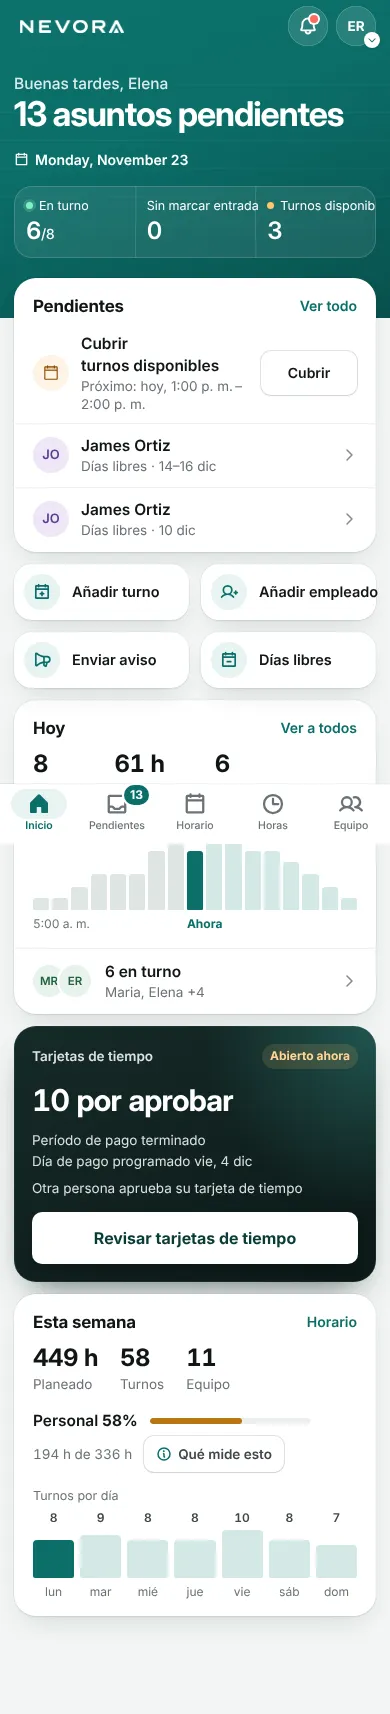
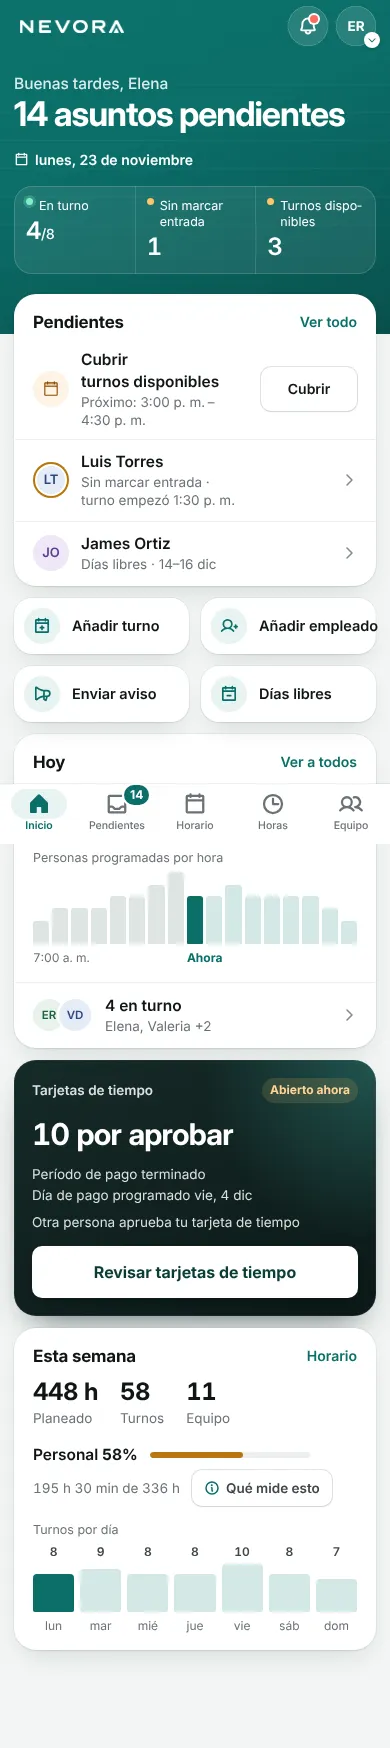
es-owner second release: report section and Spanish captures (Team availability, Home, Notifications)
Claude-Session: https://claude.ai/code/session_01N2UNZEJf6HgUuWbejnhCxe

diff --git a/docs/handoffs/2026-11-23-phase2-cloud/reports/es-owner.md b/docs/handoffs/2026-11-23-phase2-cloud/reports/es-owner.md
@@ -166,3 +166,32 @@ The scan used a scratch copy of the harness with three additions: the `nv-lang` 
 - **Shots:** refreshed, and F3-import added for Owner and Manager.
 
 Correction to "For the lead" above: the import page item is done.
+
+## Second release (lead, Nov 23, 19:23 UTC)
+I merged staff's tip (414f0da0, which includes es-rest's lang-aware lib helpers, 66e8160d), then translated what staff left in English.
+
+- **Code commit:** 8319cb7d. Shots and this section: the commit after it.
+- **(1) `notification-inbox.tsx`:** the new `notification-inbox-copy.ts` table holds every word the component draws, for both the Quiet list and the older full inbox, so English and Spanish never mix on one screen. That covers the states, status lines, filters, read and action states, empty cards, footer, the aria names, and the long date and row times ("martes, 24 de noviembre, 9:02 a. m.").
+  - Row titles, groups, facts and the "5 h ago" text now get the language from the lib helpers (`notificationTitle`, `groupNotifications`, `notificationPresentation`, `rowFacts`, `relativeTimeFor`).
+  - Fixed: the read-failure check compared the English sentence with `startsWith`; it now compares against the table.
+  - The fold test's hand-made hook host now returns a context's default for `usePortalLang()`; that one test-harness line is the only change in that test.
+- **(2) Quiet Home (`premium-home.tsx`):** Right now, Things to do and the pending card are added to `premium-home-copy.ts`, along with the band sentence and the bar and title. Times and attendance words are in Spanish, and row dates use `mobileActionDetail(detail, lang)`.
+- **(3) Business times:**
+  - `manager-availability.tsx` (server) reads `readPortalLanguage(proof)`. It passes the language to `formatBusinessDateTime` and the week range, and to the deadline day. Its own words are in a new exported `MANAGER_AVAILABILITY_WORDS` table (Disponibilidad, Fecha límite, Sin fijar, "Semana del 23–29 nov"), so the page doesn't mix languages.
+  - `manager-dashboard.tsx` takes a `lang` prop. It uses it for `homeWeek`'s last-published time (`formatBusinessTimestamp`) and the fallback date label. `app/app/page.tsx` passes it with one line, `lang={lang}`, using the page's existing read.
+  - `manager-action-center.tsx`: `mobileActionDetail(detail, lang = 'en')` writes "22 nov 2026" in Spanish. The Quiet Home passes it. Two callers outside my area could pass `w.lang` / `lang` in one line each: `manager-inbox.tsx` and `manager-inbox-corp.tsx`.
+  - In that file, `formatUpdated`'s "Updated 3:02 PM" is drawn only by `ActionCenterSurface`, which is used only by `ui-preview/home-preview.tsx`. I left it unchanged.
+- **Tests:** `es-owner-r2.test.tsx` has 8 tests:
+  - key and shape matches for the three tables
+  - Spanish renders: the Quiet list with its states, the full inbox, the Quiet Home with its pending state, and the action row date
+  - the voice-guide date and time forms
+  - English unchanged
+
+  tsc clean, oxlint no errors, src/components plus the availability and Home routes: 3720/3720.
+- **Browser:** Spanish profile, Owner and Manager, at 390, 390 with 200% text and 1440, with axe, on Home, Team availability and Notifications. 0 axe violations, no sideways scroll, no two-line buttons. Team availability is fully Spanish and fits at 200%.
+- **Not live:** neither `NotificationInbox` nor the Quiet Home is reachable from a live route now.
+  - `/app/notifications` gives Employees and Leads the corporate list (`EmployeeNotificationsSnapshotView`) and Owners and Managers `ManagerNotifications`.
+  - Every Home passes `corporate`.
+
+  Their Spanish is covered by the render tests, not by captures.
+- **For the lead (not my file):** on `/app/notifications` (`notifications-manager-b.tsx`), "Notificaciones" in the band title runs past the right edge at 390 with 200% text, for Owner and Manager. That's shot `B3-notifications-O-es-390-200.webp`. A soft hyphen ("Notificaciones") or the band's title wrap would fix it.
